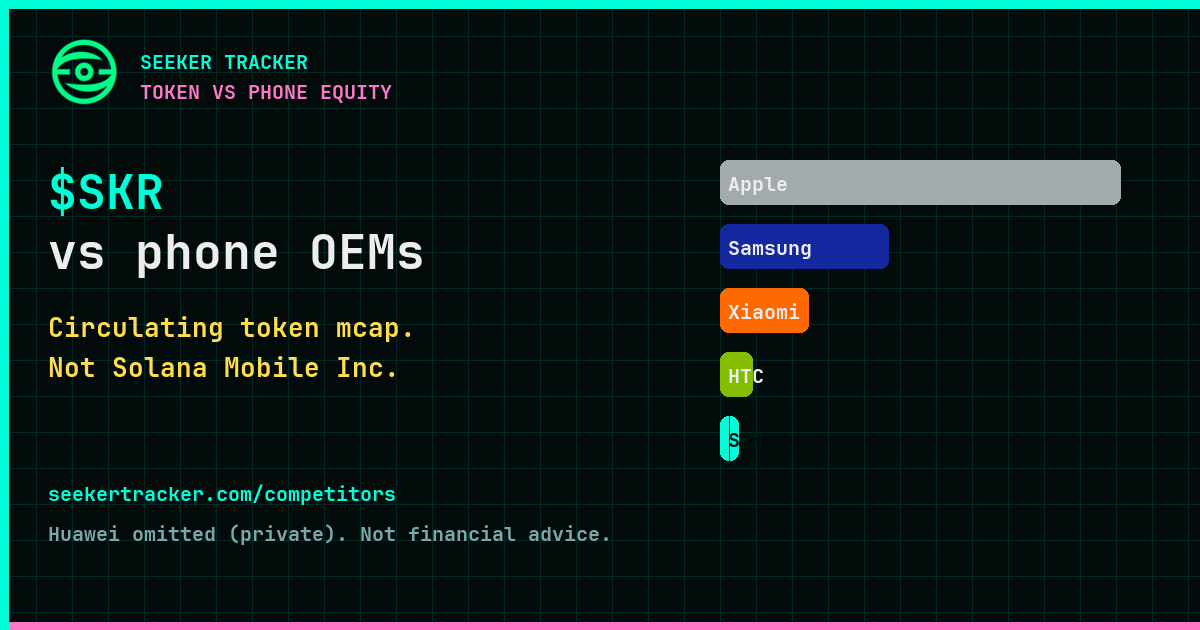
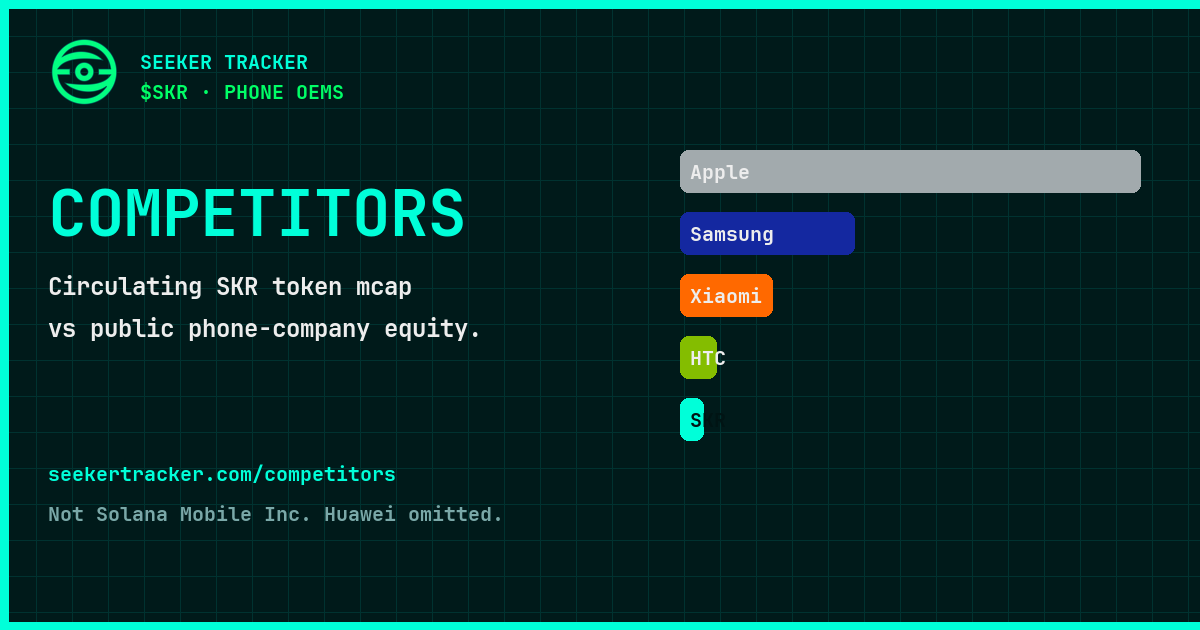
fix(competitors): title Competitors + Seeker Cyan brand
Drop Solana green/purple. H1 Competitors. Static OG matches.

diff --git a/app/(pages)/competitors/page.module.css b/app/(pages)/competitors/page.module.css
@@ -11,8 +11,8 @@
 
 .backButton {
     display: flex;
-    background: linear-gradient(45deg, #14F195, #9945FF);
-    color: black;
+    background: #00ffd9;
+    color: #001a1a;
     align-self: flex-start;
     justify-self: flex-start;
     padding: 0.5em 1em;
@@ -30,15 +30,15 @@
     align-items: center;
     padding: 2em 1em;
     border-radius: 1em;
-    border: 1px solid rgba(20, 241, 149, 0.2);
-    background: rgba(20, 241, 149, 0.05);
+    border: 1px solid rgba(0, 255, 217, 0.2);
+    background: rgba(0, 255, 217, 0.05);
     text-align: center;
 }
 
 .header {
     font-size: 2.5em;
     font-weight: 700;
-    background: linear-gradient(45deg, #14F195, #9945FF);
+    background: linear-gradient(120deg, #00ffd9 0%, #00ff66 55%, #00e6c0 100%);
     -webkit-background-clip: text;
     -webkit-text-fill-color: transparent;
     background-clip: text;
@@ -46,7 +46,16 @@
 
 .subheader {
     font-size: 1.2em;
-    color: #a0a0a0;
+    color: #7aa8a8;
+}
+
+.eyebrow {
+    margin: 0;
+    font-size: 0.68rem;
+    font-weight: 600;
+    letter-spacing: 0.12em;
+    text-transform: uppercase;
+    color: rgba(0, 255, 217, 0.7);
 }
 
 .solanaHighlight {
@@ -56,10 +65,10 @@
     width: 100%;
     max-width: 900px;
     padding: 1.5em 2em;
-    background: linear-gradient(135deg, rgba(20, 241, 149, 0.15), rgba(153, 69, 255, 0.15));
-    border: 2px solid #14F195;
+    background: linear-gradient(135deg, rgba(0, 255, 217, 0.15), rgba(0, 255, 102, 0.08));
+    border: 2px solid #00ffd9;
     border-radius: 1em;
-    box-shadow: 0 0 30px rgba(20, 241, 149, 0.2);
+    box-shadow: 0 0 30px rgba(0, 255, 217, 0.2);
 }
 
 .solanaLogo {
@@ -68,7 +77,7 @@
     justify-content: center;
     width: 60px;
     height: 60px;
-    background: linear-gradient(135deg, #14F195, #9945FF);
+    background: #00ffd9;
     border-radius: 50%;
     flex-shrink: 0;
 }
@@ -89,7 +98,7 @@
 .solanaName {
     font-size: 1.5em;
     font-weight: 700;
-    color: #14F195;
+    color: #00ffd9;
 }
 
 .solanaCap {
@@ -130,7 +139,7 @@
 
 .multiplierValue {
     font-weight: 700;
-    color: #14F195;
+    color: #00ffd9;
 }
 
 .chartSection {
@@ -140,7 +149,7 @@
     max-width: 900px;
     padding: 1.5em;
     background: rgba(17, 17, 17, 0.8);
-    border: 1px solid rgba(20, 241, 149, 0.2);
+    border: 1px solid rgba(0, 255, 217, 0.2);
     border-radius: 1em;
     gap: 1em;
 }
@@ -177,14 +186,14 @@
 }
 
 .toggleBtn:hover {
-    border-color: #14F195;
-    color: #14F195;
+    border-color: #00ffd9;
+    color: #00ffd9;
 }
 
 .toggleBtn.active {
-    background: rgba(20, 241, 149, 0.2);
-    border-color: #14F195;
-    color: #14F195;
+    background: rgba(0, 255, 217, 0.2);
+    border-color: #00ffd9;
+    color: #00ffd9;
 }
 
 .chartContainer {
@@ -209,7 +218,7 @@
 .tableContainer {
     overflow-x: auto;
     border-radius: 0.75em;
-    border: 1px solid rgba(20, 241, 149, 0.2);
+    border: 1px solid rgba(0, 255, 217, 0.2);
 }
 
 .table {
@@ -221,8 +230,8 @@
 .table th {
     padding: 1em;
     text-align: left;
-    background: rgba(20, 241, 149, 0.1);
-    color: #14F195;
+    background: rgba(0, 255, 217, 0.1);
+    color: #00ffd9;
     font-weight: 600;
     text-transform: uppercase;
     font-size: 0.8em;
@@ -244,13 +253,13 @@
 }
 
 .solanaRow td {
-    background: rgba(20, 241, 149, 0.1);
+    background: rgba(0, 255, 217, 0.1);
     color: #fff;
     font-weight: 600;
 }
 
 .solanaRow:hover td {
-    background: rgba(20, 241, 149, 0.15);
+    background: rgba(0, 255, 217, 0.15);
 }
 
 .colorDot {
@@ -274,7 +283,7 @@
 }
 
 .multiplierCell {
-    color: #14F195;
+    color: #00ffd9;
     font-weight: 600;
 }
 

diff --git a/app/(pages)/competitors/layout.tsx b/app/(pages)/competitors/layout.tsx
@@ -2,7 +2,7 @@ import type { Metadata } from "next";
 
 const TITLE = "Competitors";
 const DESCRIPTION =
-  "$SKR circulating mcap vs public phone OEM equity. Token vs company, not Solana Mobile Inc.";
+  "Competitors: circulating $SKR mcap vs public phone OEM equity. Seeker Tracker.";
 const OG = "https://seekertracker.com/og/competitors.png";
 
 export const metadata: Metadata = {
@@ -10,16 +10,16 @@ export const metadata: Metadata = {
   description: DESCRIPTION,
   alternates: { canonical: "https://seekertracker.com/competitors" },
   openGraph: {
-    title: "$SKR vs phone OEMs | Seeker Tracker",
+    title: "Competitors | Seeker Tracker",
     description: DESCRIPTION,
     url: "https://seekertracker.com/competitors",
-    images: [{ url: OG, width: 1200, height: 630, alt: "$SKR vs phone OEMs" }],
+    images: [{ url: OG, width: 1200, height: 630, alt: "Competitors | Seeker Tracker" }],
     type: "website",
     siteName: "SeekerTracker",
   },
   twitter: {
     card: "summary_large_image",
-    title: "$SKR vs phone OEMs | Seeker Tracker",
+    title: "Competitors | Seeker Tracker",
     description: DESCRIPTION,
     images: [OG],
     creator: "@seeker_tracker",

diff --git a/app/(pages)/competitors/page.tsx b/app/(pages)/competitors/page.tsx
@@ -100,7 +100,8 @@ export default function CompetitorsPage() {
       </div>
 
       <div className={styles.topBar}>
-        <span className={styles.header}>$SKR vs phone OEMs</span>
+        <span className={styles.eyebrow}>$SKR · phone OEMs</span>
+        <span className={styles.header}>Competitors</span>
         <span className={styles.subheader}>
           Circulating SKR token mcap vs public phone-company equity
         </span>
@@ -109,7 +110,7 @@ export default function CompetitorsPage() {
       {skr && (
         <div className={styles.solanaHighlight}>
           <div className={styles.solanaLogo}>
-            <span className={styles.solanaIcon}>$</span>
+            <span className={styles.solanaIcon}>S</span>
           </div>
           <div className={styles.solanaInfo}>
             <span className={styles.solanaName}>SKR (Seeker)</span>
